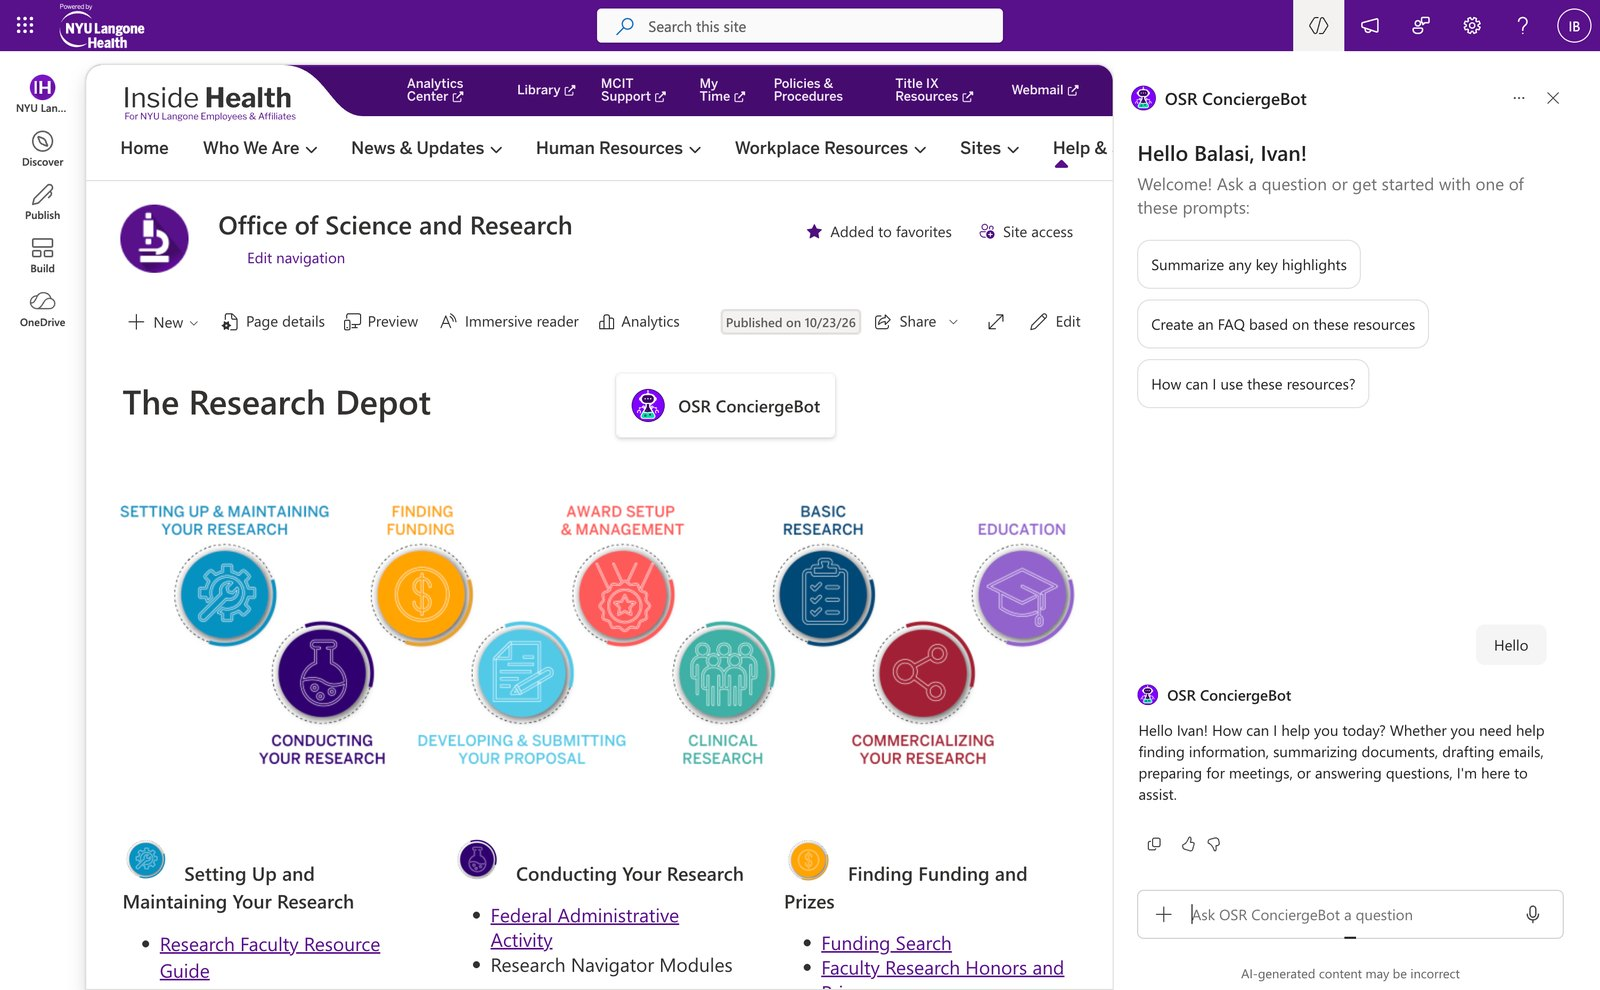
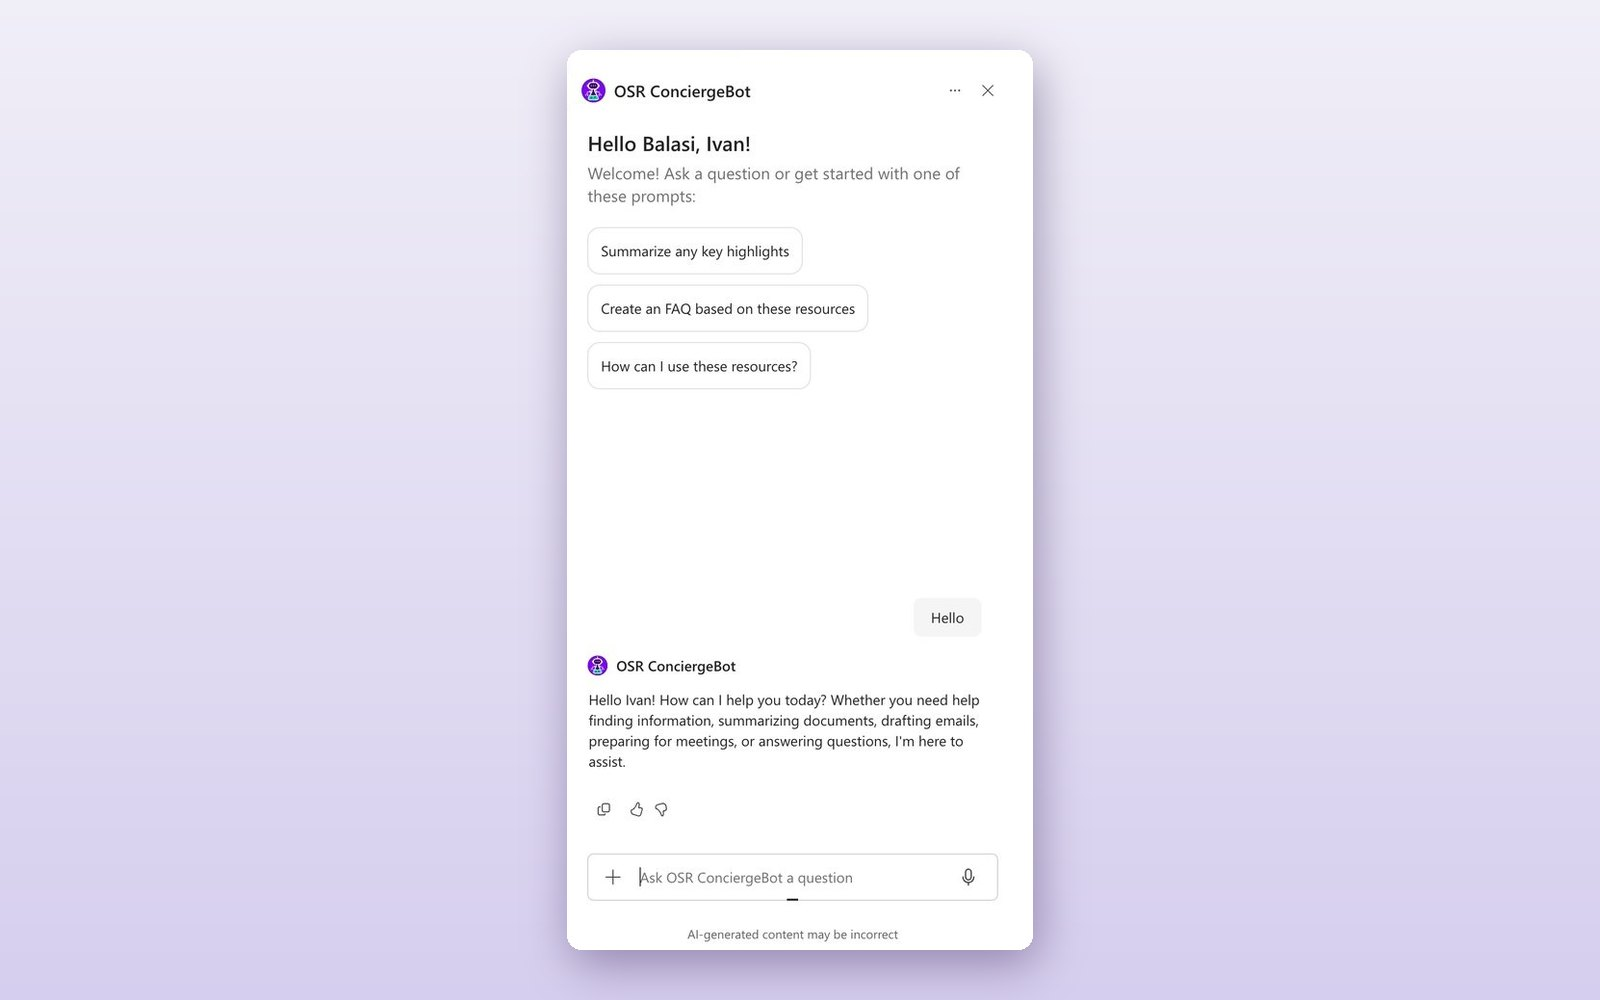
Updated OSR chatbot screenshot and open to select freel
index.html: “Open to select freelance projects”
work.html: the updated ConciergeBot image description, and 21 projects
llms.txt: the freelance wording
img/web/osr-conciergebot.jpg: the cropped chat panel

diff --git a/work.html b/work.html
@@ -157,7 +157,7 @@
         <ul class="tags" aria-label="Tools"><li>AI chatbot</li><li>Gecko</li><li>User acceptance testing</li><li>Project management</li><li>Stakeholder management</li></ul>
       </li>
       <li class="work-card" data-category="chatbot intranet">
-        <div class="frame"><div class="frame-bar" aria-hidden="true"><span>Inside Health · OSR ConciergeBot</span></div><div class="media"><img src="img/web/osr-conciergebot.jpg" alt="OSR ConciergeBot open beside The Research Depot page on the NYU Langone intranet, greeting the user and offering prompts such as Summarize any key highlights" loading="lazy" decoding="async"><div class="media-fallback" aria-hidden="true"><span class="tile-note">Office of Science and Research</span><span class="tile-mark">Concierge<br>Bot</span></div></div></div>
+        <div class="frame"><div class="frame-bar" aria-hidden="true"><span>Inside Health · OSR ConciergeBot</span></div><div class="media"><img src="img/web/osr-conciergebot.jpg" alt="OSR ConciergeBot chat panel greeting the user and offering prompts such as Summarize any key highlights and How can I use these resources?" loading="lazy" decoding="async"><div class="media-fallback" aria-hidden="true"><span class="tile-note">Office of Science and Research</span><span class="tile-mark">Concierge<br>Bot</span></div></div></div>
         <div class="card-meta"><span class="label">Office of Science and Research</span><span class="label">AI chatbot</span></div>
         <h3>OSR ConciergeBot</h3>
         <p>OSR ConciergeBot is an AI chatbot we added to all Office of Science &amp; Research intranet sites. Instead of digging through menus, site users ask a question and the bot points them to the right information and resources.</p>

diff --git a/index.html b/index.html
@@ -121,7 +121,7 @@
     <div class="wrap">
       <div class="hero-meta">
         <span class="label">Senior Manager, Web Development · Photography &amp; Media · NYU Grossman School of Medicine</span>
-        <span class="label"><span class="status-dot" aria-hidden="true"></span>Available for freelance</span>
+        <span class="label"><span class="status-dot" aria-hidden="true"></span>Open to select freelance projects</span>
       </div>
       <h1 class="hero-title" id="hero-title">
         <span class="line"><span>I build</span></span>
